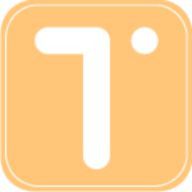
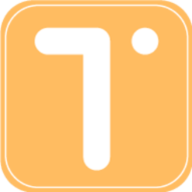
newpost

diff --git a/public/assets/css/style.css b/public/assets/css/style.css
@@ -62,6 +62,8 @@ h2 {
  ヘッダー
 ------------------------------ */
 header {
+    display: flex;
+    position: sticky;
     background-color: #ffffff;
     padding: 15px 20px;
     position: sticky;
@@ -75,9 +77,15 @@ header {
 }
 
 header .logo {
-    font-size: 1.5rem;
-    font-weight: bold;
-    color: var(--color-primary);
+    max-width: 130px;
+    height: auto;
+    object-fit: cover;
+    margin-right: 15px;
+}
+@media screen and (max-width: 768px) {
+    header .logo {
+        max-width: 90px;
+    }
 }
 
 header nav a {
@@ -101,6 +109,7 @@ header .search-form {
     margin: 0 auto;
     box-shadow: 0 0 2px gray;
 }
+
 header .search-form input[type="text"] {
     position: relative;
     top: 5px;
@@ -116,6 +125,7 @@ header .search-form input[type="text"] {
     outline: none;
     background: transparent;
 }
+
 header .search-form input[type="text"]:focus {
     outline: none !important;
     box-shadow: none !important;
@@ -129,10 +139,36 @@ header .search-form button {
     font-size: 1.5rem;
 }
 
+header .new-post-btn {
+    align-items: center;
+    justify-content: center;
+    text-decoration: none;
+    color: var(--color-text);
+    padding: 10px;
+    transition: background-color 0.3s, color 0.3s;
+    align-self: center;
+    margin-right: 15px;
+}
+@media screen and (max-width: 768px) {
+    header .new-post-btn {
+    display: none;
+    }
+}
+
+/* ボタンのホバーエフェクト */
+header .new-post-btn:hover {
+    color: var(--color-accent);
+}
+
 /* プロフィールドロップダウンメニューのスタイル */
 .profile-dropdown {
     position: relative;
     display: inline-block;
+}
+@media (max-width: 768px) {
+    .profile-dropdown span {
+        display: none; /* ユーザーネームを非表示 */
+    }
 }
 
 .profile-dropdown .dropdown-content {
@@ -142,7 +178,7 @@ header .search-form button {
     top: 100%;
     background-color: white;
     min-width: 150px;
-    box-shadow: 0px 8px 16px rgba(0,0,0,0.3);
+    box-shadow: 0px 8px 16px rgba(0, 0, 0, 0.3);
     z-index: 1;
     border-radius: 8px;
     overflow: hidden;
@@ -161,6 +197,16 @@ header .search-form button {
 .profile-dropdown .dropdown-content a:hover {
     color: var(--color-accent);
 }
+
+.profile-dropdown .dropdown-content a.new-post-btn {
+    display: none;
+}
+@media screen and (max-width:768px) {
+    .profile-dropdown .dropdown-content a.new-post-btn {
+        display: block;
+    }
+}
+
 
 .profile-dropdown #profile-btn {
     background: none;
@@ -595,6 +641,7 @@ form button:hover {
     gap: 20px;
     margin-top: 20px;
 }
+
 .post-button {
     width: 200px;
 }

diff --git a/public/profile.php b/public/profile.php
@@ -1,0 +1,94 @@
+<?php
+ini_set('display_errors', 1);
+ini_set('display_startup_errors', 1);
+error_reporting(E_ALL);
+
+require_once __DIR__ . '/../config/db.php';
+session_start();
+
+// データベース接続取得
+$pdo = getDBConnection();
+
+if (!isset($_SESSION['user_id'])) {
+    header('Location: login.php');
+    exit();
+}
+
+// ユーザー情報取得
+$user_id = $_SESSION['user_id'];
+$query = $pdo->prepare('SELECT * FROM users WHERE id = ?');
+$query->execute([$user_id]);
+$user = $query->fetch();
+
+if ($_SERVER['REQUEST_METHOD'] === 'POST') {
+    $username = trim($_POST['username']);
+    $email = trim($_POST['email']);
+    $password = $_POST['password'];
+    $profile_image = $_FILES['profile_image'];
+
+    try {
+        // ユーザーネームとEmailを更新
+        $updateQuery = $pdo->prepare('UPDATE users SET username = ?, email = ? WHERE id = ?');
+        $updateQuery->execute([$username, $email, $user_id]);
+
+        // パスワードが入力されていれば更新
+        if (!empty($password)) {
+            $hashedPassword = password_hash($password, PASSWORD_DEFAULT);
+            $updatePassQuery = $pdo->prepare('UPDATE users SET password = ? WHERE id = ?');
+            $updatePassQuery->execute([$hashedPassword, $user_id]);
+        }
+
+        // プロフィール画像の更新
+        if ($profile_image && $profile_image['error'] == UPLOAD_ERR_OK) {
+            $target_dir = "../storage/uploads/";
+            if (!is_dir($target_dir)) mkdir($target_dir, 0755, true);
+
+            $filePath = $target_dir . basename($profile_image['name']);
+            move_uploaded_file($profile_image['tmp_name'], $filePath);
+
+            $updateImgQuery = $pdo->prepare('UPDATE users SET profile_image = ? WHERE id = ?');
+            $updateImgQuery->execute([$filePath, $user_id]);
+
+            // セッションに新しいプロフィール画像のパスを格納
+            $_SESSION['profile_image'] = $filePath;
+        }
+
+        // セッションに新しいユーザーネームを格納
+        $_SESSION['username'] = $username;
+
+        // リダイレクトして情報を反映
+        header('Location: profile.php');
+        exit();
+
+    } catch (PDOException $e) {
+        echo "エラー: " . $e->getMessage();
+        exit();
+    }
+}
+
+include __DIR__ . '/../includes/header.php';
+?>
+
+<div class="container">
+    <div class="form-container">
+        <h2>ユーザー情報編集</h2>
+
+        <form method="POST" enctype="multipart/form-data">
+            <label for="username">ユーザーネーム</label>
+            <input type="text" id="username" name="username" value="<?= htmlspecialchars($user['username']) ?>" required>
+
+            <label for="email">Email</label>
+            <input type="email" id="email" name="email" value="<?= htmlspecialchars($user['email']) ?>" required>
+
+            <label for="password">新しいパスワード</label>
+            <input type="password" id="password" name="password" placeholder="Enter New Password">
+
+            <label for="profile_image">プロフィール画像</label>
+            <input type="file" id="profile_image" name="profile_image">
+
+            <button type="submit">保存する</button>
+        </form>
+    </div>
+</div>
+
+<?php include __DIR__ . '/../includes/footer.php'; ?>

diff --git a/includes/header.php b/includes/header.php
@@ -24,7 +24,7 @@ error_reporting(E_ALL);
 
     <header>
         <a href="<?php echo isset($_SESSION['user_id']) ? '/taggy/public/home.php' : '/taggy/public/index.php'; ?>">
-            <h1>TAGGY</h1>
+            <img src="/taggy/public/assets/images/taggy_logo.svg" alt="TAGGY Logo" class="logo" />
         </a>
 
         <!-- 検索バー：ログインユーザーのみ表示 -->
@@ -34,9 +34,11 @@ error_reporting(E_ALL);
                 <!-- <button type="submit">🔍</button> -->
             </form>
         <?php endif; ?>
-
+        <!-- 「新規投稿」ボタン追加 -->
+        <a href="new_post.php" class="new-post-btn">新規投稿</a>
         <nav>
             <?php if (isset($_SESSION['user_id'])): ?>
+
                 <!-- ユーザープロフィールアイコンと名前表示 -->
                 <div class="profile-dropdown">
                     <a id="profile-btn" href="#">
@@ -48,9 +50,10 @@ error_reporting(E_ALL);
                         <span><?= $username ?></span>
                     </a>
                     <div class="dropdown-content">
-                        <a href="mypage.php">Mypage</a>
-                        <a href="profile.php">Profile</a>
-                        <a href="logout.php">Logout</a>
+                        <a href="new_post.php" class="new-post-btn">新規投稿</a>
+                        <a href="mypage.php">My TAGGY一覧</a>
+                        <a href="profile.php">ユーザー情報編集</a>
+                        <a href="logout.php">ログアウト</a>
                     </div>
                 </div>
             <?php else: ?>
